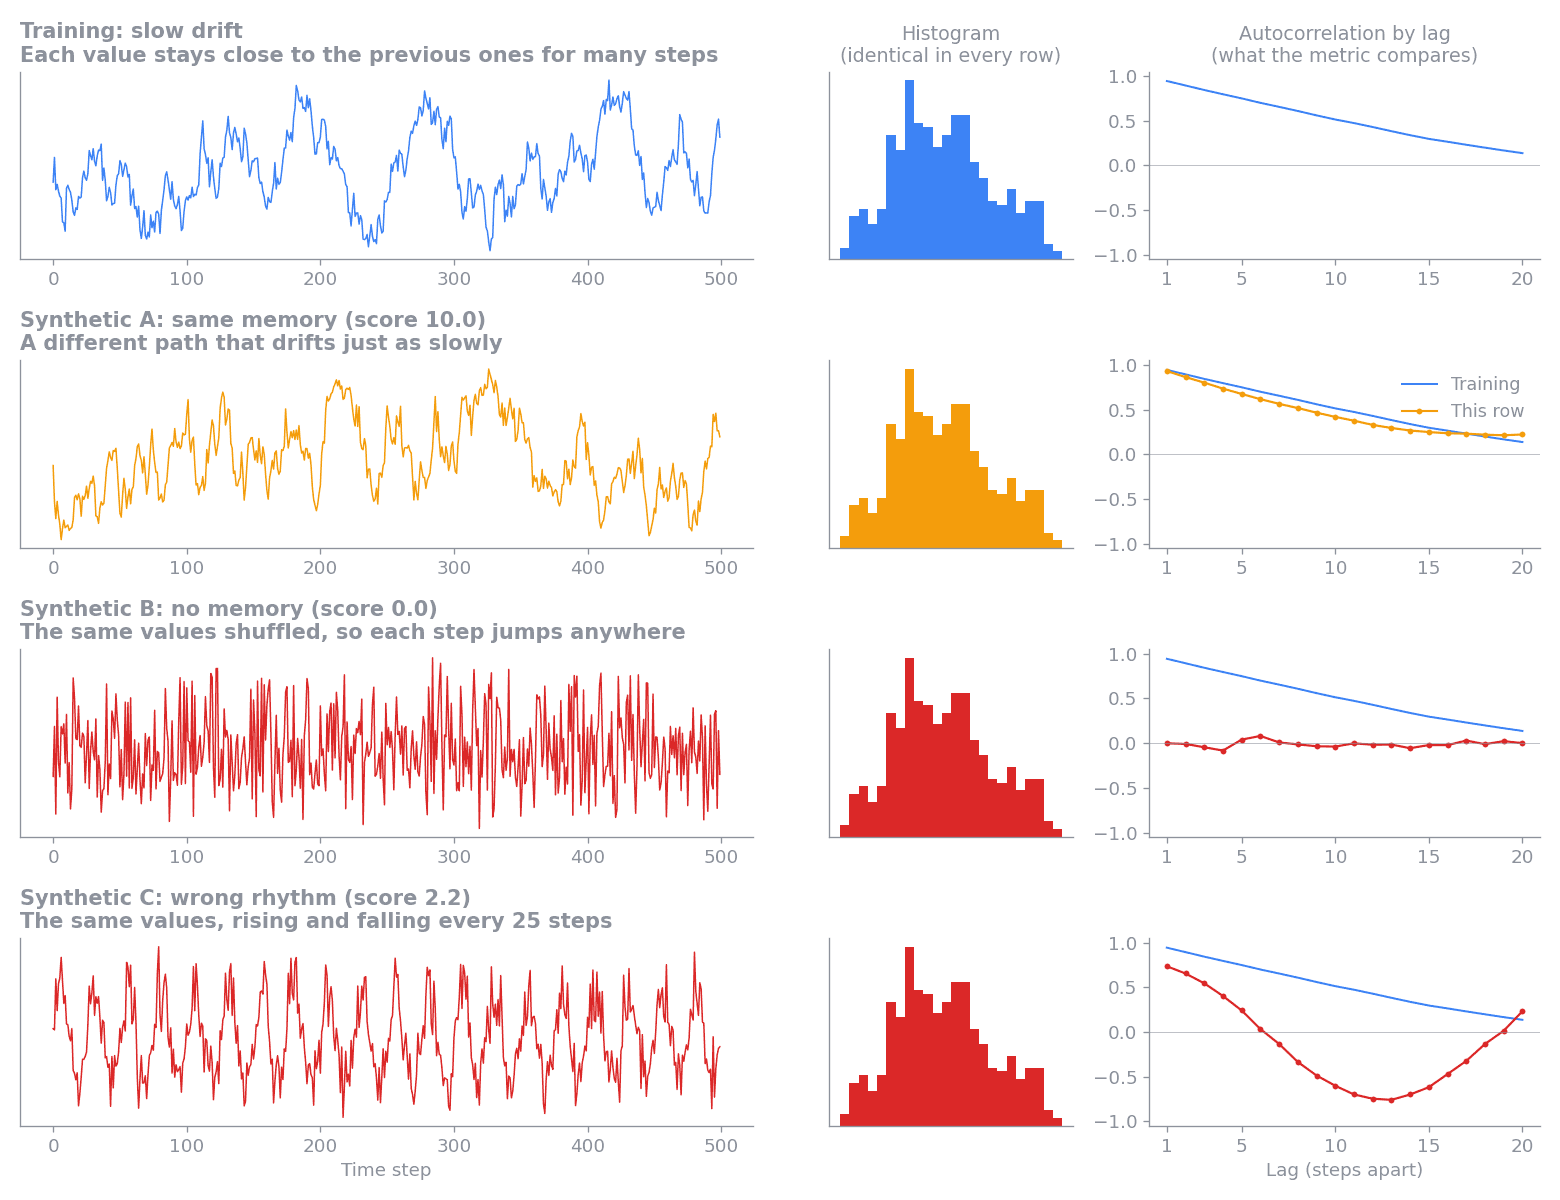
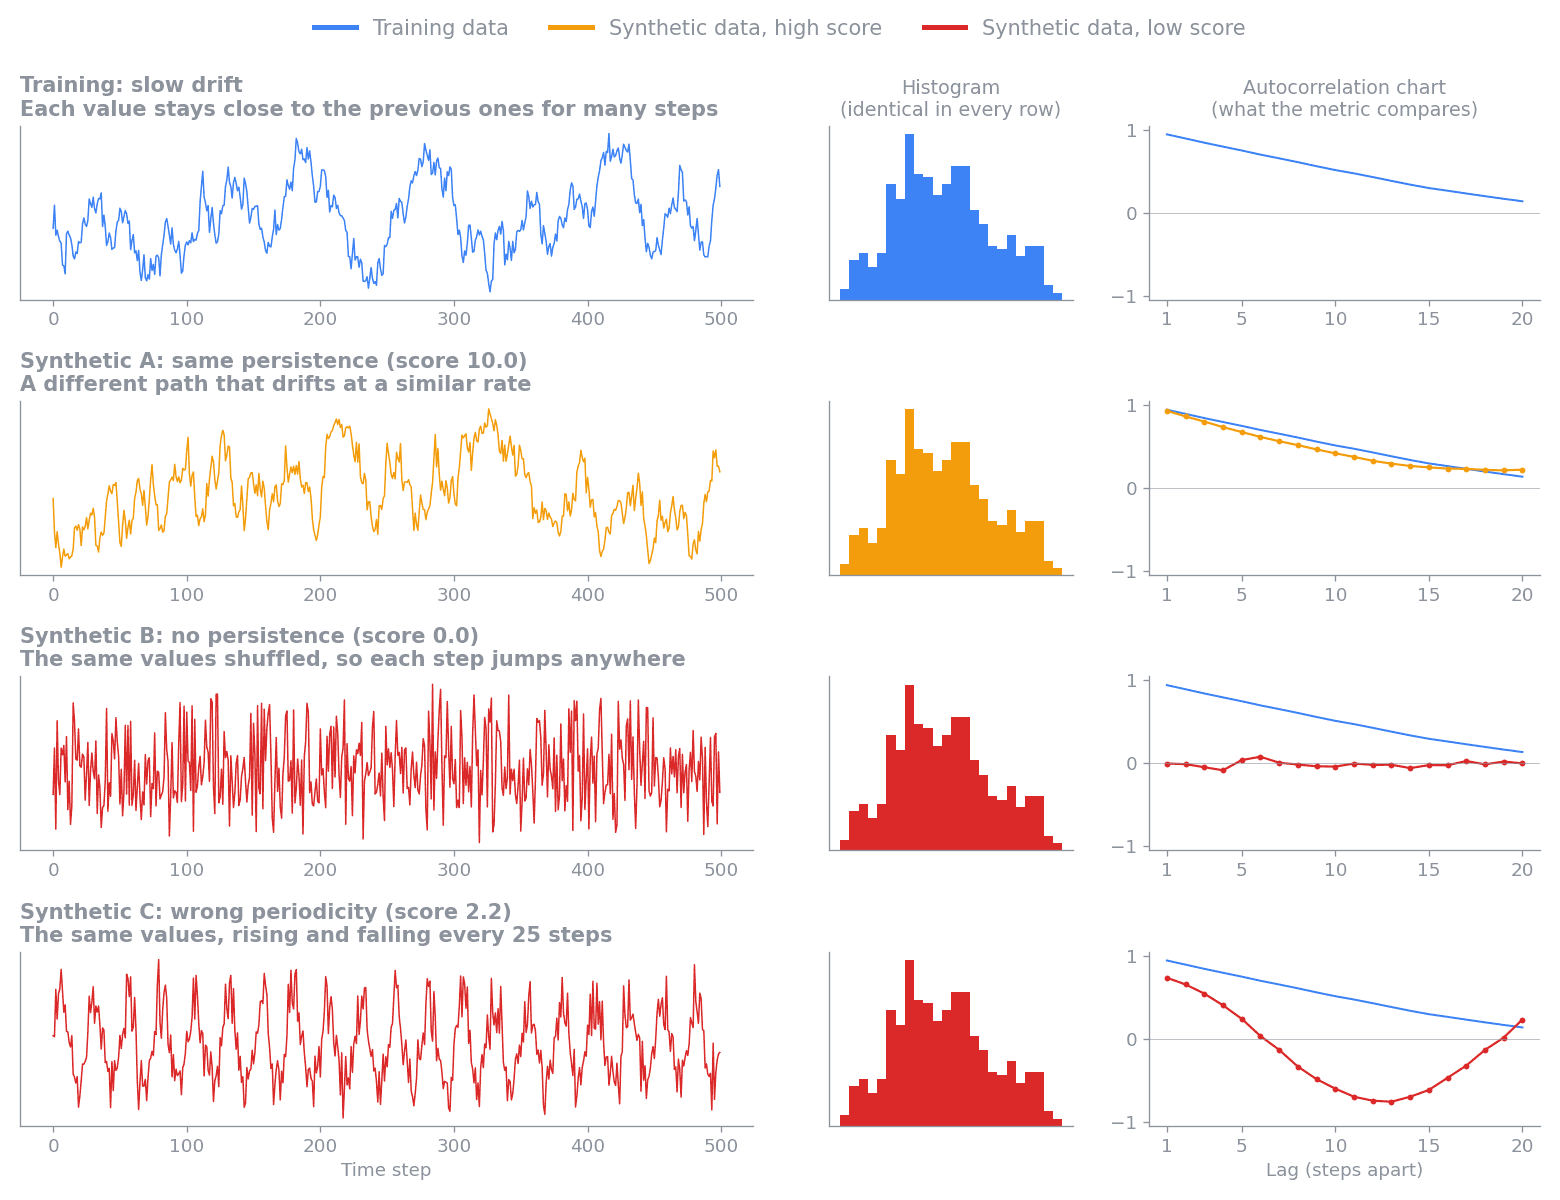
docs: address autocorrelation guide review feedback
Split the partial-loss tier, add a shared caveat for time-series metrics,
mention periodicity, separate general and example chart descriptions,
explain where the card is, clarify constant series and cross-run
comparisons, and order scenario figures by score with a top legend on the
opening figure.

diff --git a/src/nemo_safe_synthesizer/evaluation/assets/text/multi_modal_tooltips.py b/src/nemo_safe_synthesizer/evaluation/assets/text/multi_modal_tooltips.py
@@ -66,7 +66,7 @@ tooltips = {
         the middle half of groups. In good synthetic data the orange and blue lines overlap. Use the dropdown to switch columns.
     """,
     "autocorrelation_difference_info": """
-        The average gap between training and synthetic autocorrelation at each lag, across all group and column pairs. Short, pale bars are good.
+        The average gap between training and synthetic autocorrelation at each lag, across all group-column pairs. Short, pale bars are good.
         Tall, red bars mark lags where the synthetic data's timing pattern differs from the training data.
     """,
     "autocorrelation_pair_scores_info": """

diff --git a/docs/user-guide/time-series-metrics/autocorrelation-similarity.md b/docs/user-guide/time-series-metrics/autocorrelation-similarity.md
@@ -13,17 +13,19 @@ Two properties matter most:
 - Persistence, or memory: how long a value stays close to its recent past. A
   slowly drifting temperature has strong persistence, and a value that jumps
   anywhere at every step has none.
-- Rhythm: whether values rise and fall in a repeating cycle, such as a daily
-  pattern, and how long that cycle is.
+- Periodicity: whether values rise and fall in a repeating cycle, or rhythm,
+  such as a daily or weekly pattern, and how long that cycle is.
 
 The figure below shows one training sequence and three synthetic sequences that
 all contain exactly the same values, so their histograms are identical. Only
-the order differs. The right column shows each sequence's autocorrelation: the
-correlation between each value and the value 1, 2, and up to 20 steps later.
+the order differs. The right column shows each sequence's autocorrelation
+chart: the correlation between each value and the value 1, 2, and up to 20
+steps later. In this guide, "autocorrelation" on its own means this
+correlation, and "the score" means the 0–10 Autocorrelation Similarity score.
 
-![One slowly drifting training series and three synthetic series with identical histograms. A different series that drifts just as slowly scores 10.0. The same values shuffled score 0.0. The same values rearranged into a 25-step cycle score 2.2.](assets/autocorrelation-memory-and-rhythm.png)
+![One slowly drifting training series in blue and three synthetic series with identical histograms. A different series that drifts at a similar rate, in orange, scores 10.0. The same values shuffled, in red, score 0.0. The same values rearranged into a 25-step cycle, in red, score 2.2.](assets/autocorrelation-memory-and-rhythm.png)
 
-- Synthetic A takes a different path but drifts just as slowly. Its
+- Synthetic A takes a different path but drifts at a similar rate. Its
   autocorrelation follows the training curve, so it scores 10.0.
 - Synthetic B is the training values shuffled. Each value is unrelated to the
   one before it, so its autocorrelation is flat at 0 and it scores 0.0.
@@ -36,23 +38,24 @@ correlation between each value and the value 1, 2, and up to 20 steps later.
 A higher score means the synthetic data's autocorrelation is closer to the
 training data's. Differences small enough to be explained by chance do not
 lower the score, so synthetic data generated by the same process as the
-training data scores near 10, and synthetic data with no temporal structure
-left scores near 0.
+training data scores near 10. When the training data has structure over time,
+synthetic data with none of that structure left scores near 0. If the training
+data has no structure either, for example if it is already shuffled, shuffled
+synthetic data matches it and scores high.
 
 The score covers only how values depend on their own recent past. A low score
-does not mean the synthetic data is bad overall. It means the synthetic data
-does not reproduce the persistence or rhythm of the training data. The values
-themselves, their distributions, and the relationships between columns can
-still match well, as with the shuffled series in the figure above, which has
-exactly the training values and scores 0.0. Read this score alongside the
-Synthetic Quality Score, and weigh it by how much your use case depends on
-behavior over time.
+means the synthetic data does not reproduce the persistence or periodicity of
+the training data. The values themselves, their distributions, and the
+relationships between columns can still match well, as with the shuffled
+series in the figure above, which has exactly the training values and scores
+0.0. Read this score alongside the Synthetic Quality Score, and weigh it by how
+much your use case depends on behavior over time.
 
 ### Example scenarios
 
-The figures below show how the metric scores one group and column pair in a
-range of situations. Each row compares one training series (blue) with one
-synthetic series (orange):
+The figures below show how the metric scores one group-column pair in a range
+of situations, ordered from the highest average score to the lowest. Each row
+compares one training series (blue) with one synthetic series (orange):
 
 - The left chart shows the values.
 - The middle chart shows their autocorrelation at lags 1 to 20. A lag is the
@@ -71,33 +74,43 @@ With about 200 points per sequence, scores fall into rough tiers:
 - About 8 to 10: the synthetic data keeps the training data's persistence and
   cycles. Two pure-noise series average about 8.5, because a single pair's
   chance differences sometimes exceed what sampling noise predicts.
-- About 2 to 7: the synthetic data keeps some structure but loses part of it,
-  for example weaker persistence, a cycle buried in noise, a regime change, or
-  too much smoothness. Occasional outlier spikes lower the score less, to
-  about 7.
+- About 5 to 8: the synthetic data keeps most of its structure with a mild
+  loss, for example occasional outlier spikes (about 7) or a regime change
+  partway through the sequence (about 5).
+- About 2 to 5: the synthetic data keeps some structure but loses a large part
+  of it, for example much weaker persistence, a cycle buried in noise, or too
+  much smoothness.
 - About 0 to 2: the synthetic data has lost its structure over time, as when
   values are shuffled, a trend is missing, or a cycle has the wrong length.
-- 0: the synthetic values are constant.
+- 0: the synthetic values are constant while the training values vary. If the
+  training values are constant, autocorrelation is undefined, so the metric
+  skips that group-column pair instead of scoring it.
 
 Sequence length affects how much the score can tell apart. Longer sequences
 measure autocorrelation more precisely, so a real difference stands out more
 clearly and scores lower. Shorter sequences carry less evidence, so the metric
 gives them more benefit of the doubt and their scores bunch toward the middle.
-Synthetic data from the same process scores high at any length. The metric
+Synthetic data from the same process scores highly at any length. The metric
 also cannot see patterns longer than `max_lag` steps, and by design it ignores
 differences in level, scale, and phase, as the additional scenarios show.
 
-These tiers are a guide rather than pass or fail thresholds. Compare scores
-only when the selected columns, groups, and `max_lag` are the same. Whether a
+These tiers are a guide rather than pass or fail thresholds. Within one report,
+every group-column pair uses the same columns, groups, and `max_lag`. When you
+compare scores across runs, check that those settings and the input data's
+columns and groups are the same, because changing them changes what the score
+measures. Whether a
 difference matters depends on the downstream use case. For example, preserving
 short-term persistence may be critical for sensor simulation but unimportant
 for a workload that uses only long-term totals.
 
 ### Reading the report charts
 
-The metric card shows three charts built from every evaluated group and column
-pair. Select the info icon next to a chart title for a short reminder of how
-to read it.
+The Autocorrelation Similarity card is in the automatically generated HTML
+quality and privacy report. Select Synthetic Quality in the report's navigation
+and find the card in the Time-Series Metrics panel, then expand it to see three
+charts built from
+every evaluated group-column pair. Select the info icon next to a chart title
+for a short reminder of how to read it.
 
 ![The Autocorrelation Similarity card in the HTML evaluation report, showing a score of 7.0 with the Typical autocorrelation, Difference by lag, and Pair scores charts.](assets/autocorrelation-report.png)
 
@@ -110,33 +123,43 @@ can confirm each of these details in the report itself: use the column
 selector on the first chart, and hover over any bar or point to see its exact
 values.
 
-- Typical autocorrelation: plots the median training and synthetic
-  autocorrelation at each lag for one numeric column. The shaded bands cover
-  the middle 50% of groups. The chart opens on the column with the lowest mean
-  pair score, here `pressure`. Use the column selector next to the title to
-  switch columns. For `pressure`, training autocorrelation decays slowly from
-  about 0.9, while the synthetic median drops to about 0.25 by lag 4 and to 0
-  by lag 10, so most synthetic sensors lost part of the training data's
-  persistence.
-- Difference by lag: plots the mean absolute difference between the training
-  and synthetic profiles of each pair at each lag, across all numeric columns.
-  Hover over a bar to see its exact value. Here the difference grows from
-  about 0.2 at lag 1 to about 0.3 to 0.35 from lag 9 onward, so the loss is
-  largest for long-range persistence. A peak at one lag instead points to a missing or
-  shifted cycle. The y-axis always spans at least 0 to 1, so short, pale bars
-  mean small differences, and bars turn red as the difference approaches 0.5.
-- Pair scores: plots the score of every group and column pair on the 0–10
-  scale, with the overall score marked by the dashed line. Each point is one
-  sensor, shaded from white at 10 to red at 0. Points within a row are spread
-  out vertically so that equal scores stay visible. Hover over a point to see
-  its full column name, group, and score. Each column's scores fall steadily
-  from 10 for the first sensors toward the last ones. `temperature` and
-  `humidity` stay above about 5.5, while `pressure` falls to between about 2.5
-  and 4.5 for sensors 3 to 6 and to 0 for the constant sensor 7 series. The
-  gap between the overall score and 10 therefore comes mostly from the later
-  sensors and from `pressure`, rather than from every pair equally. The chart shows the 8 lowest-scoring columns. Column
-  names longer than 10 characters are shortened to their first and last three
-  characters, as with `tem...ure`.
+- Typical autocorrelation
+  - What it shows: the median training and synthetic autocorrelation at each
+    lag for one numeric column. The shaded bands cover the middle 50% of
+    groups. The chart opens on the column with the lowest mean pair score. Use
+    the column selector next to the title to switch columns. In good synthetic
+    data, the blue and orange lines overlap.
+  - In this example: the chart opens on `pressure`. Training autocorrelation
+    decays slowly from about 0.9, while the synthetic median drops to about
+    0.25 by lag 4 and to 0 by lag 10, so most synthetic sensors lost part of
+    the training data's persistence.
+- Difference by lag
+  - What it shows: the mean absolute difference between the training and
+    synthetic autocorrelation of each group-column pair at each lag, across
+    all numeric columns. Hover over a bar to see its exact value. The y-axis
+    always spans at least 0 to 1, so short, pale bars mean small differences,
+    and bars turn red as the difference approaches 0.5. Differences that grow
+    with lag point to lost long-range persistence, and a peak at one lag points
+    to a missing or shifted cycle.
+  - In this example: the difference grows from about 0.2 at lag 1 to about
+    0.3 to 0.35 from lag 9 onward, so the loss is largest for long-range
+    persistence.
+- Pair scores
+  - What it shows: the score of every group-column pair on the 0–10 scale,
+    with the overall score marked by the dashed line. Each point is one group,
+    shaded from white at 10 to red at 0, and each row is one column. Points
+    within a row are spread out vertically so that equal scores stay visible.
+    Hover over a point to see its full column name, group, and score. The chart
+    shows the 8 lowest-scoring columns. Column names longer than 10 characters
+    are shortened to their first and last three characters, as with
+    `tem...ure`.
+  - In this example: each point is one sensor, and each column's scores fall
+    steadily from 10 for the first sensors toward the last ones. `temperature`
+    and `humidity` stay above about 5.5, while `pressure` falls to between
+    about 2.5 and 4.5 for sensors 3 to 6 and to 0 for the constant sensor 7
+    series. The gap between the overall score and 10 therefore comes mostly
+    from the later sensors and from `pressure`, rather than from every pair
+    equally.
 
 A pair whose synthetic values are constant scores 0 but has no synthetic
 autocorrelation, so only Pair scores shows it. In the example, the `pressure`
@@ -186,8 +209,10 @@ behavior partway through a sequence, and irregular sampling intervals can make
 lag comparisons misleading. Binary and categorical columns need different
 measures and are not selected automatically. The metric does not establish
 causality or show whether the synthetic data memorizes training sequences.
-Interpret the score at a lag range and sequence length that match the
-behavior you need to preserve.
+The score summarizes all lags and groups in one number, so it can't tell you
+about a particular lag range or sequence length. To judge whether the
+synthetic data preserves the behavior your use case needs, look at the
+detailed report charts for the lags, columns, and groups that matter to you.
 
 ## Calculation
 
@@ -224,7 +249,7 @@ sequences from the same process do not lose points on average, at any length,
 and pooling the lags before the square root keeps several small chance gaps
 from adding up to a large penalty. The result is clipped to the range 0 to 1.
 The final 0–10 score is ten times
-the mean profile similarity across group and column pairs. Therefore, 10 means
+the mean profile similarity across group-column pairs. Therefore, 10 means
 the profiles agree within sampling noise, and 0 means none of the training
 data's structure over time is reproduced.
 

diff --git a/docs/product-overview/evaluation.md b/docs/product-overview/evaluation.md
@@ -100,11 +100,13 @@ You should expect some PII replay, and it is often not a cause for concern. We t
 
 ## Time-Series Metrics (beta)
 
-Time-series metrics check whether synthetic sequences change over time the way the training sequences do. They run by default when `time_series.is_timeseries` is true and appear in a Time-Series Metrics panel in the Synthetic Quality section of the report. They are not yet part of SQS. Set `evaluation.time_series.enabled: false` to skip them.
+Time-series metrics compare the temporal properties of synthetic and training sequences. They run by default when `time_series.is_timeseries` is true and appear in a Time-Series Metrics panel in the Synthetic Quality section of the report. Their scores do not yet contribute to the overall Synthetic Quality Score (SQS) calculation. Set `evaluation.time_series.enabled: false` to skip them.
+
+Each time-series metric measures one specific temporal property, and not every property matters for every use case. Before treating a low score as a sign that a run or its synthetic data is bad, review what the metric measures and consider whether that property matters for how you plan to use the data. A low score on one metric can coexist with values, distributions, and column relationships that match well. In the end, how well the synthetic data performs in its intended use case is the final measure of its quality.
 
 ### Autocorrelation Similarity
 
-This score measures whether each synthetic numeric column keeps the memory and rhythm of its training counterpart: how long values stay close to their recent past, and whether they rise and fall in the same cycles. We compare the autocorrelation at lags 1 to 20 for every group and column pair, after discounting the differences that sampling noise alone would produce. Synthetic data from the same process scores near 10, and shuffled or constant data scores near 0. A low score does not mean the synthetic data is bad overall: its values and column relationships can still match well, and the score only shows that its behavior over time does not. See [Autocorrelation Similarity](../user-guide/time-series-metrics/autocorrelation-similarity.md) for example scenarios, a walkthrough of the report charts, and configuration.
+This score measures whether each synthetic numeric column keeps the persistence and periodicity of its training counterpart: how long values stay close to their recent past, and whether they rise and fall in the same repeating cycles, such as daily or weekly patterns. Focus on this metric when those patterns matter for your use case. We compare the autocorrelation at lags 1 to 20 for every group-column pair, after discounting the differences that sampling noise alone would produce. Synthetic data from the same process scores near 10, and shuffled or constant data scores near 0 when the training data has structure over time. See [Autocorrelation Similarity](../user-guide/time-series-metrics/autocorrelation-similarity.md) for example scenarios, a walkthrough of the report charts, and configuration.
 
 ## Evaluation Reports
 
